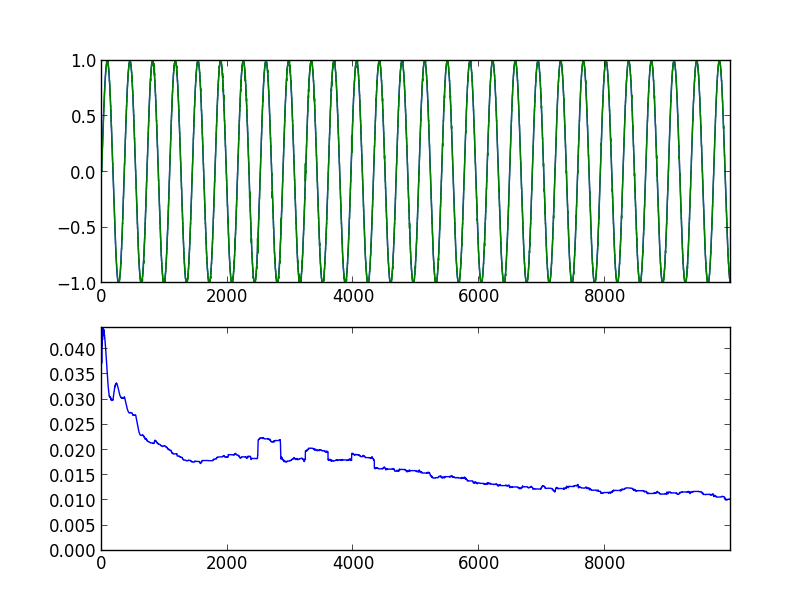
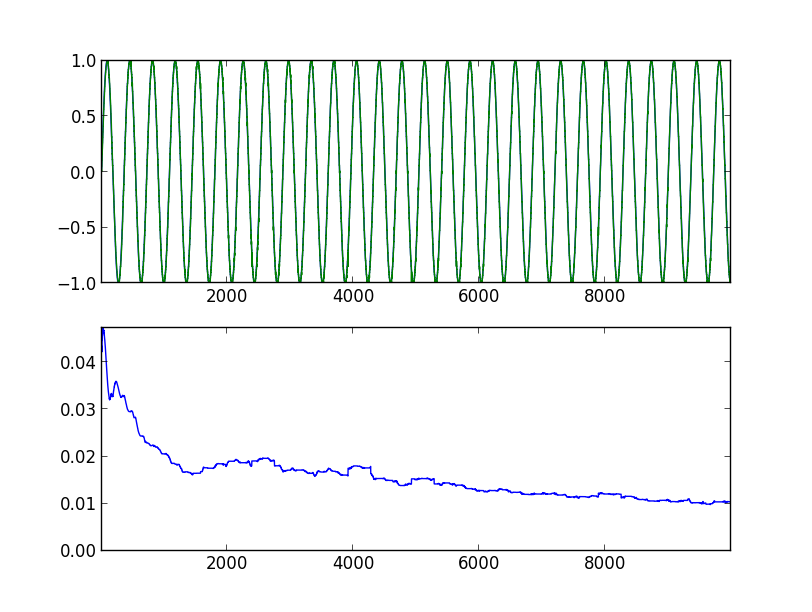
Sin done

diff --git a/01-sin/sin-predictor.py b/01-sin/sin-predictor.py
@@ -1,7 +1,8 @@
 import math
 import numpy
-import time
-import random
+import pprint
+
+from optparse import OptionParser
 
 from matplotlib.pylab import draw, plot, ion, subplot, savefig
 
@@ -10,8 +11,9 @@ from nupic.frameworks.opf.modelfactory import ModelFactory
 import model_params
 
 class Plot(object):
-    def __init__(self, error_window=360):
+    def __init__(self, error_window=360, window=-1):
         self.error_window = error_window
+        self.window = window
         self.errors = []
 
         subplot(2, 1, 1)
@@ -20,16 +22,22 @@ class Plot(object):
         subplot(2, 1, 2)
         self.err_plot, = plot([], [])
 
-    def new_point(self, x, actual, predicted):
-        xdata = numpy.append(self.act_plot.get_xdata(orig=True), x)
-        self.act_plot.set_xdata(xdata)
-        self.act_plot.axes.set_xlim(0, x)
+    def _apply_window(self, data):
+        if self.window > 0:
+            return data[-self.window:]
+        else:
+            return data
 
-        dat = numpy.append(self.act_plot.get_ydata(orig=True), actual)
+    def new_point(self, x, actual, predicted):
+        xdata = self._apply_window(numpy.append(self.act_plot.get_xdata(orig=True), x))
+        self.act_plot.set_xdata(xdata)
+        self.act_plot.axes.set_xlim(min(xdata), x)
+
+        dat = self._apply_window(numpy.append(self.act_plot.get_ydata(orig=True), actual))
         self.act_plot.set_ydata(dat)
         self.act_plot.axes.set_ylim(min(dat), max(dat))
 
-        dat = numpy.append(self.pred_plot.get_ydata(orig=True), predicted)
+        dat = self._apply_window(numpy.append(self.pred_plot.get_ydata(orig=True), predicted))
         self.pred_plot.set_xdata(xdata)
         self.pred_plot.set_ydata(dat)
 
@@ -41,78 +49,42 @@ class Plot(object):
             rmse = None
 
         self.err_plot.set_xdata(xdata)
-        self.err_plot.axes.set_xlim(0, x)
-        err_data = numpy.append(self.err_plot.get_ydata(orig=True), rmse)
+        self.err_plot.axes.set_xlim(min(xdata), x)
+        err_data = self._apply_window(numpy.append(self.err_plot.get_ydata(orig=True), rmse))
         self.err_plot.set_ydata(err_data)
         self.err_plot.axes.set_ylim(min(err_data), max(err_data))
         draw()
 
 
 if __name__ == "__main__":
+    parser = OptionParser()
+    parser.add_option("-s", "--steps", dest="steps", type='int', default=1000,
+                      help="Count of steps to simulate, default=1000")
+    parser.add_option("-i", "--image", dest="image_name",
+                      help="Name of image file to save final figure")
+    parser.add_option("-w", "--window", dest="window", default=-1, type='int',
+                      help="Data window size to show on charts. If greater than zero,"
+                           "this count of last values displayed. By default display all values")
+    options, args = parser.parse_args()
+
     ion()
     model = ModelFactory.create(model_params.MODEL_PARAMS)
     model.enableInference({'predictedField': 'y'})
 
-    # x values
-    xdata = []
-    # sin values
-    ydata = []
-    # predicted values
-    pdata = []
-    # rmse
-    edata = []
-
-    error_window = 360
-    errors = []
-
-    figure = Plot()
-
-#    subplot(2, 1, 1)
-#    sin_plot, = plot(xdata, ydata)
-#    sin_plot.axes.set_ylim(-1.1, 1.1)
-#    pred_plot, = plot(xdata, pdata)
-#    pred_plot.axes.set_ylim(-1.1, 1.1)
-
-#    subplot(2, 1, 2)
-#    err_plot, = plot(xdata, edata)
+    figure = Plot(window=options.window)
 
     x = 0
     prev_pred = None
 
-    while x < 1000:
+    while x < options.steps:
         y = math.sin(x*math.pi/180.0)
-#        if x > 1000:
-#            if y > 0:
-#                y = min(0.5, y)
-#            else:
-#                y = max(-0.5, y)
+
         res = model.run({'y': y})
         inference = res.inferences['multiStepBestPredictions'][1]
         if prev_pred:
             figure.new_point(x, y, prev_pred)
-
-        pdata.append(prev_pred)
-        xdata.append(x)
-        ydata.append(y)
-        if prev_pred:
-            edata.append(abs(y-prev_pred))
-        else:
-            edata.append(None)
-
         prev_pred = inference
 
- #       if x % 100 == 0:
- #           sin_plot.set_xdata(xdata)
- #           sin_plot.set_ydata(ydata)
- #           sin_plot.axes.set_xlim(0, x)
- #           pred_plot.set_xdata(xdata)
- #           pred_plot.set_ydata(pdata)
-
-#            err_plot.set_xdata(xdata)
-#            err_plot.set_ydata(edata)
-#            err_plot.axes.set_xlim(0, x)
-#            err_plot.axes.set_ylim(min(edata), max(edata))
-#            draw()
         x += 1
-
-    savefig("figure.png")
+    if options.image_name:
+        savefig(options.image_name)

diff --git a/01-sin/model_params.py b/01-sin/model_params.py
@@ -40,17 +40,15 @@ MODEL_PARAMS = {
             # >=3: even more info (see compute() in py/regions/RecordSensor.py)
             'verbosity' : 0,
 
-            # CPU usage encoder.
             'encoders': {
                 'y': {
                     'fieldname': u'y',
                     'n': 100,
                     'name': u'y',
                     'type': 'ScalarEncoder',
-#                    'type': 'DeltaEncoder',
                     'minval': -1.0,
                     'maxval': 1.0,
-                    'w': 11
+                    'w': 21
                 },
             },
 
